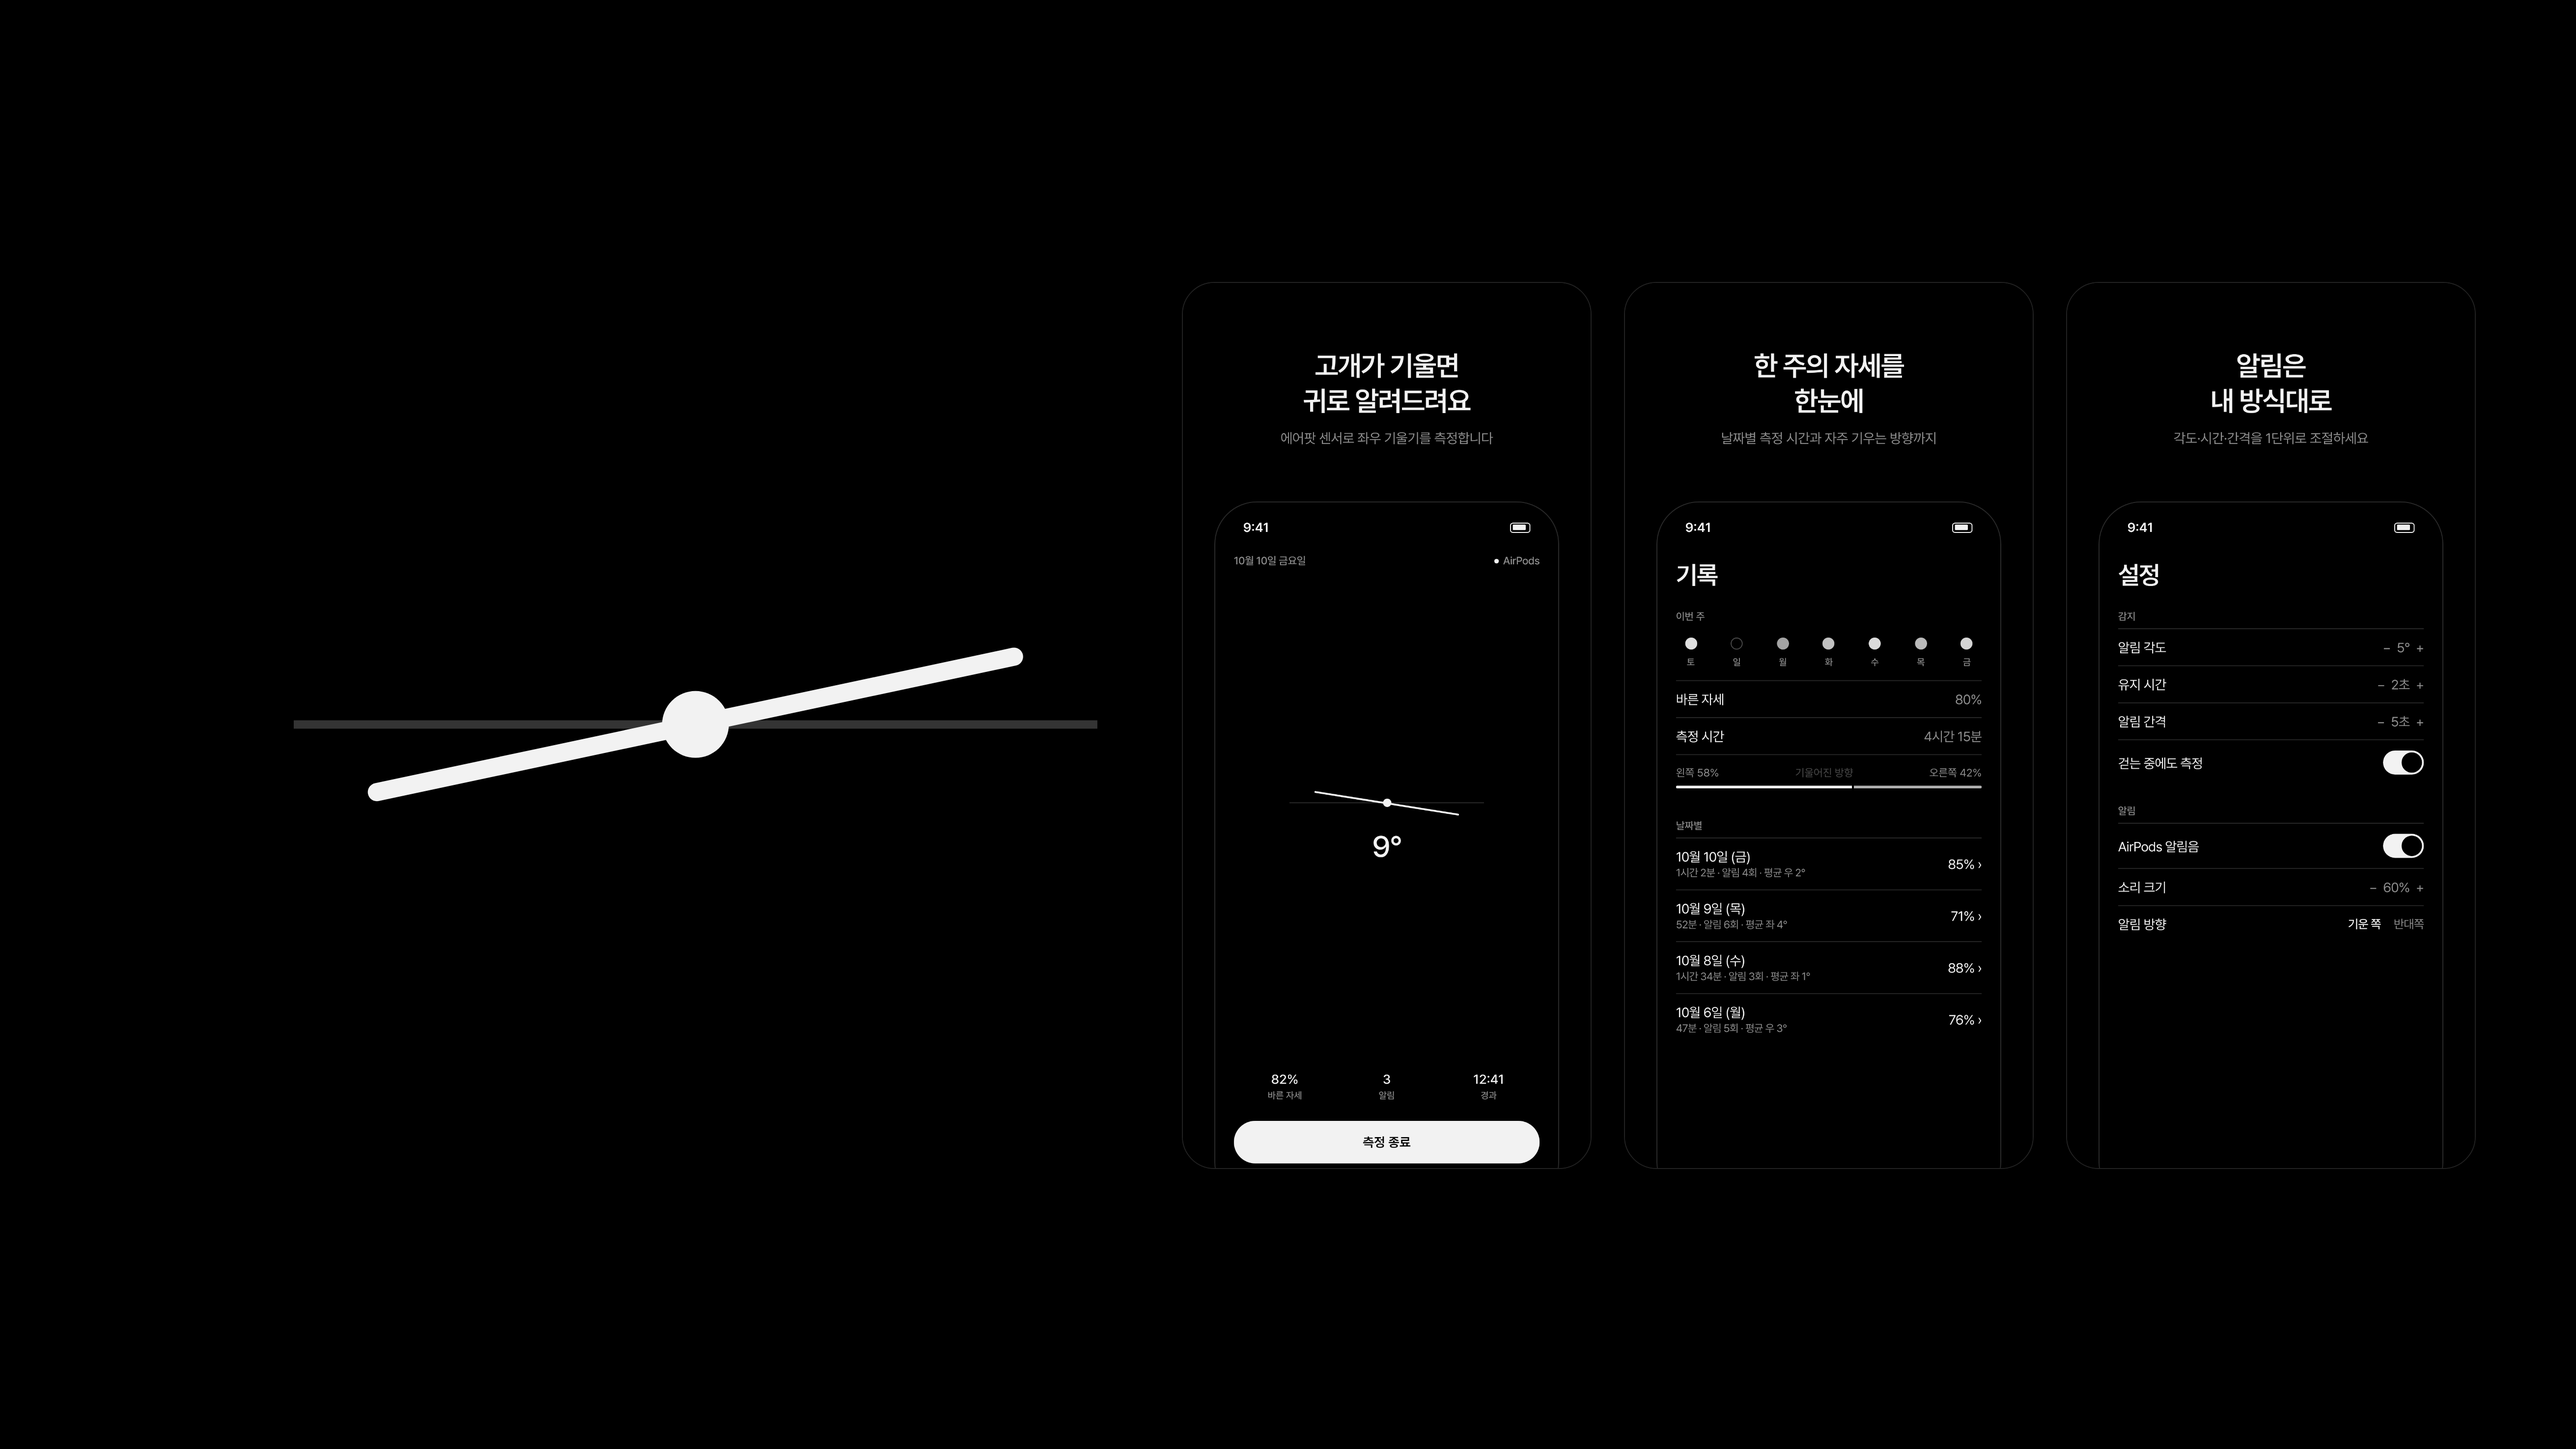
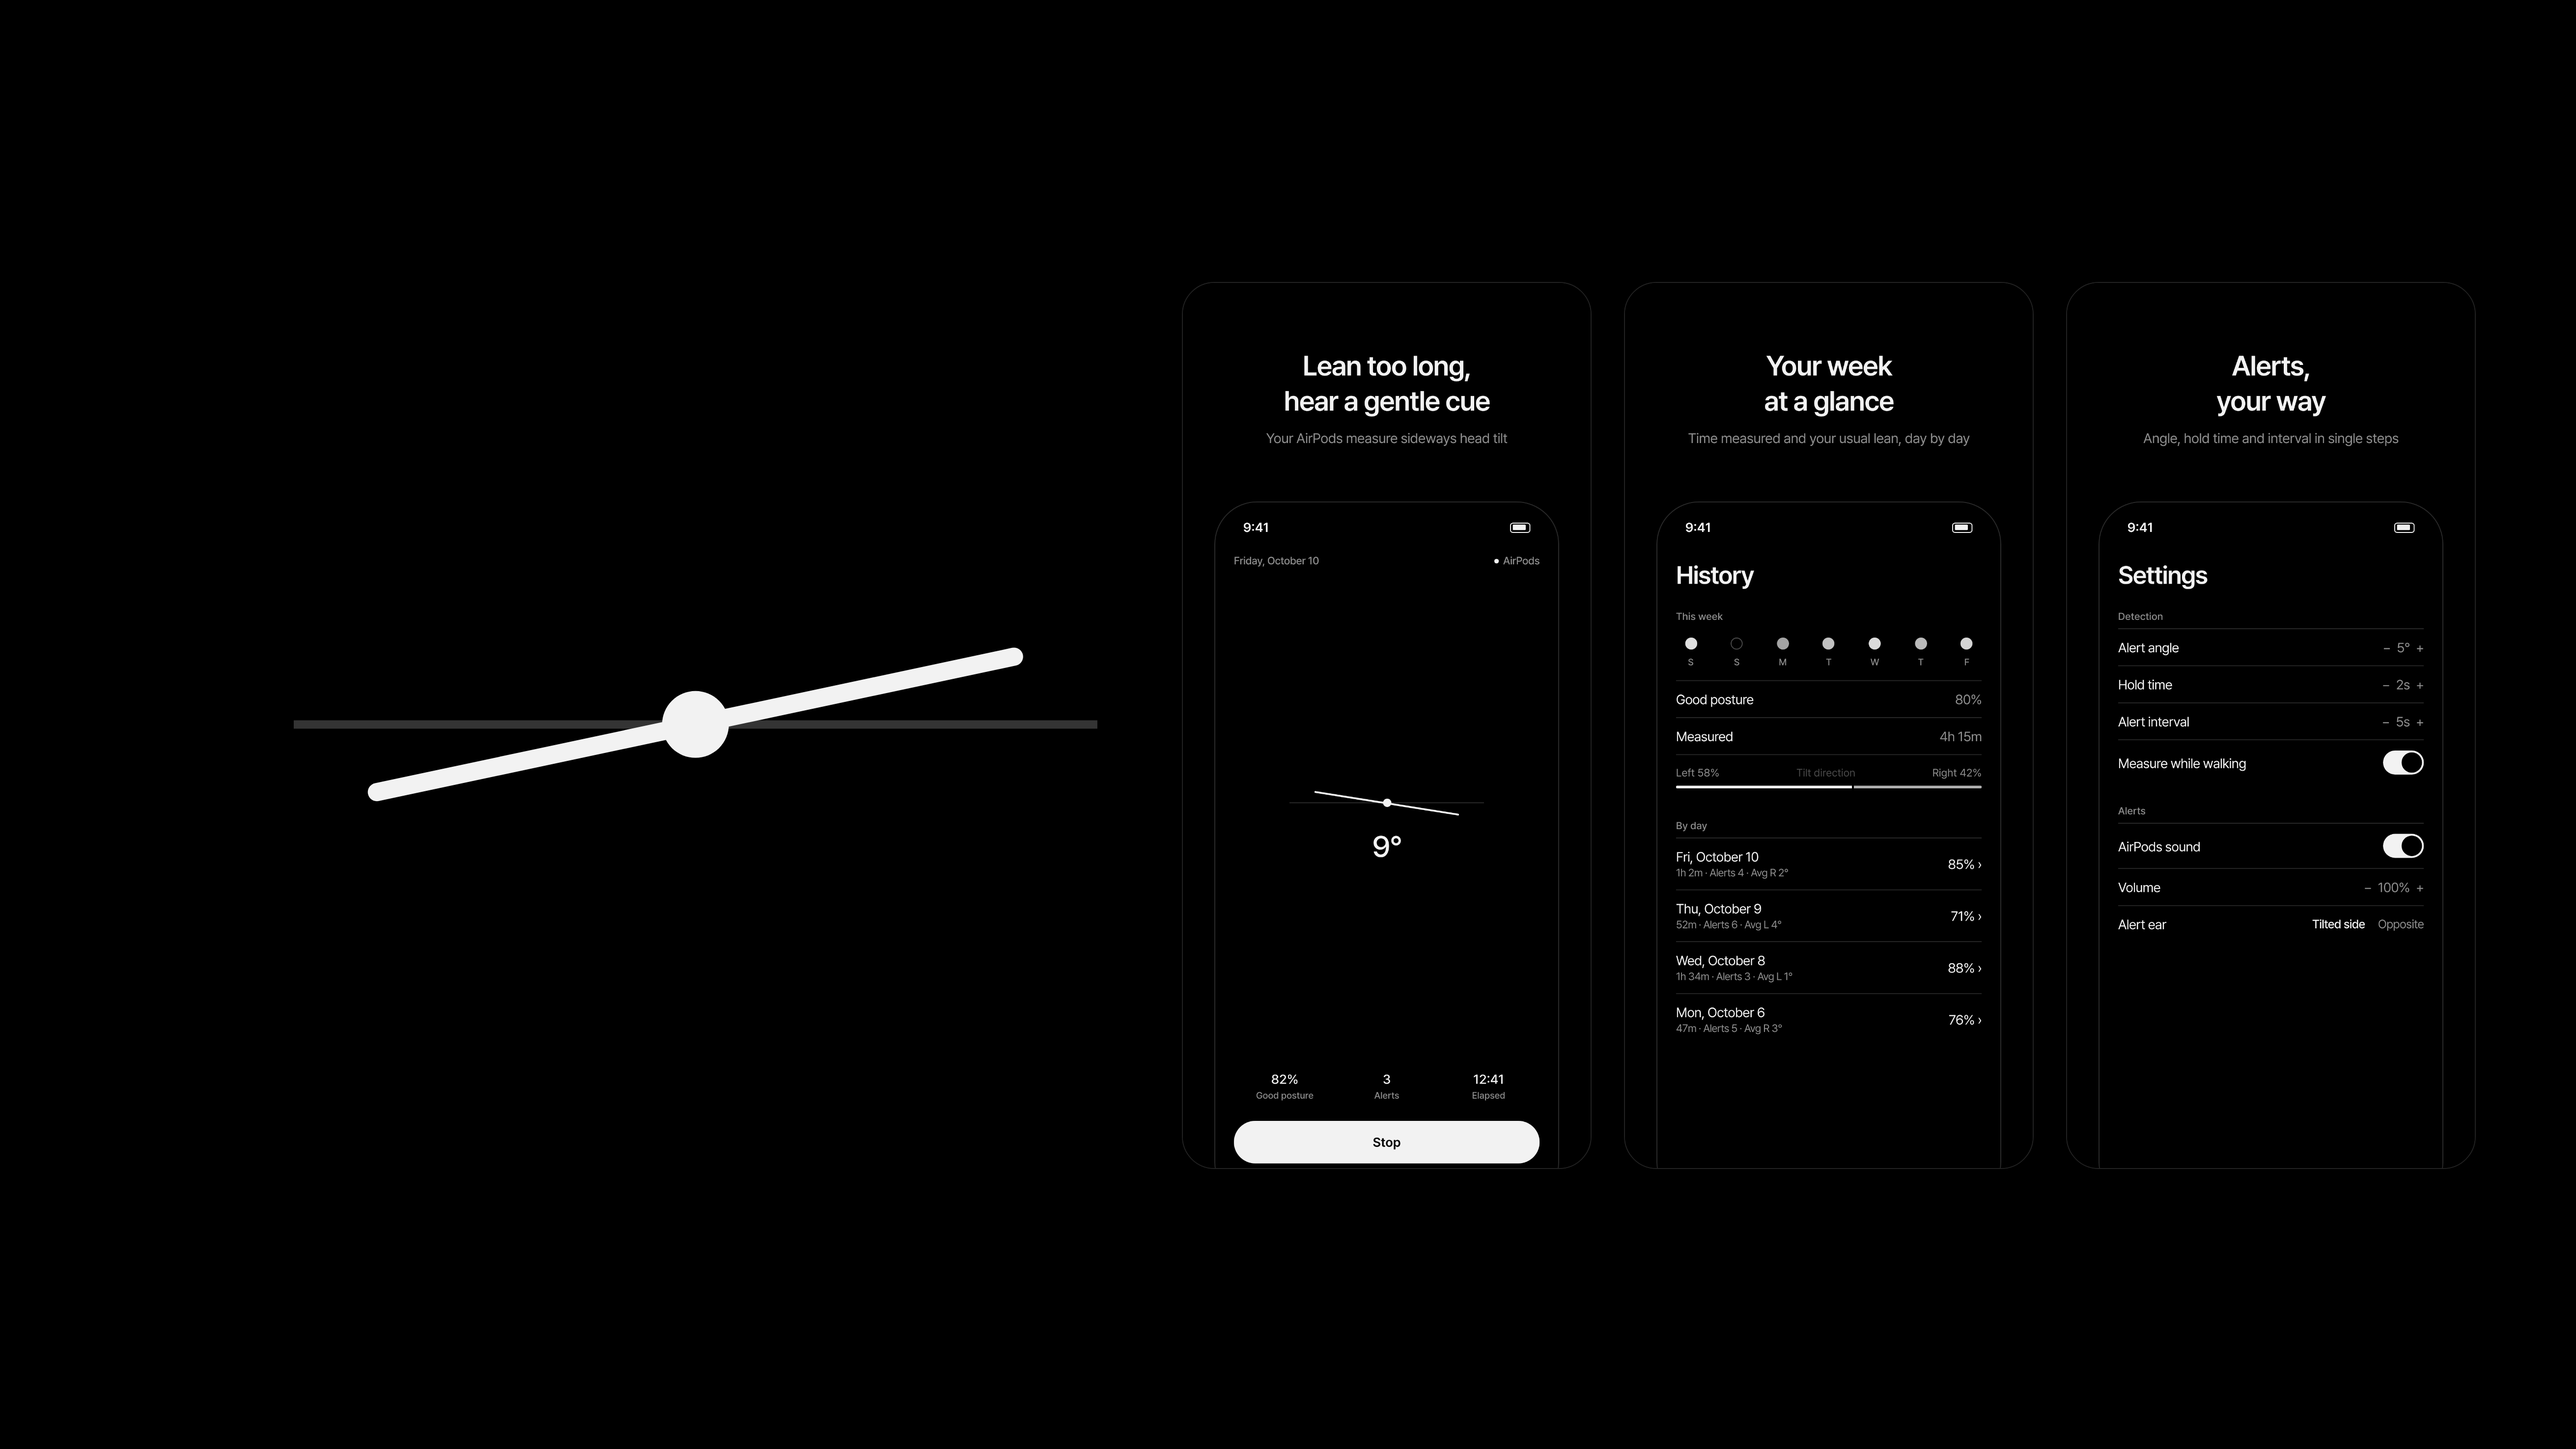
English-first product page artwork; screenshots show 100% volume
Claude-Session: https://claude.ai/code/session_0158HxgyrmyPZ7vbmBS67BrG

diff --git a/store/screenshots/render.html b/store/screenshots/render.html
@@ -81,7 +81,7 @@ const screens = {
       <div class="sh">${T.byday}</div>${T.days.map(d=>`<div class="r"><div><div>${d[0]}</div><div class="sub">${d[1]}</div></div><span>${d[2]}  ›</span></div>`).join('')}</div></div>`,
   4: () => cap(T.c4) + `<div class="phone">${sb}<div class="scr"><div class="title">${T.set}</div><div class="sh">${T.detect}</div>
       <div class="r"><span>${T.angle}</span><span class="v">−&nbsp;&nbsp;5°&nbsp;&nbsp;+</span></div><div class="r"><span>${T.holdt}</span><span class="v">−&nbsp;&nbsp;${T.sec(2)}&nbsp;&nbsp;+</span></div><div class="r"><span>${T.interval}</span><span class="v">−&nbsp;&nbsp;${T.sec(5)}&nbsp;&nbsp;+</span></div><div class="r"><span>${T.walk}</span><span class="tg"></span></div>
-      <div class="sh">${T.alertsH}</div><div class="r"><span>${T.sound}</span><span class="tg"></span></div><div class="r"><span>${T.vol}</span><span class="v">−&nbsp;&nbsp;60%&nbsp;&nbsp;+</span></div><div class="r"><span>${T.ear}</span><span class="seg"><b>${T.tilted}</b><span>${T.opposite}</span></span></div></div></div>`,
+      <div class="sh">${T.alertsH}</div><div class="r"><span>${T.sound}</span><span class="tg"></span></div><div class="r"><span>${T.vol}</span><span class="v">−&nbsp;&nbsp;100%&nbsp;&nbsp;+</span></div><div class="r"><span>${T.ear}</span><span class="seg"><b>${T.tilted}</b><span>${T.opposite}</span></span></div></div></div>`,
 };
 document.getElementById('root').innerHTML = screens[N]();
 </script></body></html>

diff --git a/store/product-page/art.html b/store/product-page/art.html
@@ -26,7 +26,8 @@ else {
   mark(W*0.27,H/2, W*0.26);
   // Three phones fit in the right half: 3 widths + 2 gaps of 8%.
   const w = Math.min((W*0.5)/3.16, (H*0.82)*1320/2868), h = w*2868/1320;
-  const imgs=['ko-1','ko-3','ko-4'].map((n,i)=>`<img src="../screenshots/${n}.png" style="height:${h}px;width:${w}px;--r:${w*0.08}px;margin-left:${i? w*0.08:0}px">`).join('');
+  const lang=q.get('lang')||'en';
+  const imgs=['1','3','4'].map(n=>lang+'-'+n).map((n,i)=>`<img src="../screenshots/${n}.png" style="height:${h}px;width:${w}px;--r:${w*0.08}px;margin-left:${i? w*0.08:0}px">`).join('');
   c.insertAdjacentHTML('beforeend',`<div class="shots" style="left:${W*0.46}px;right:${W*0.04}px;top:${(H-h)/2}px">${imgs}</div>`);
 }
 </script></body></html>
